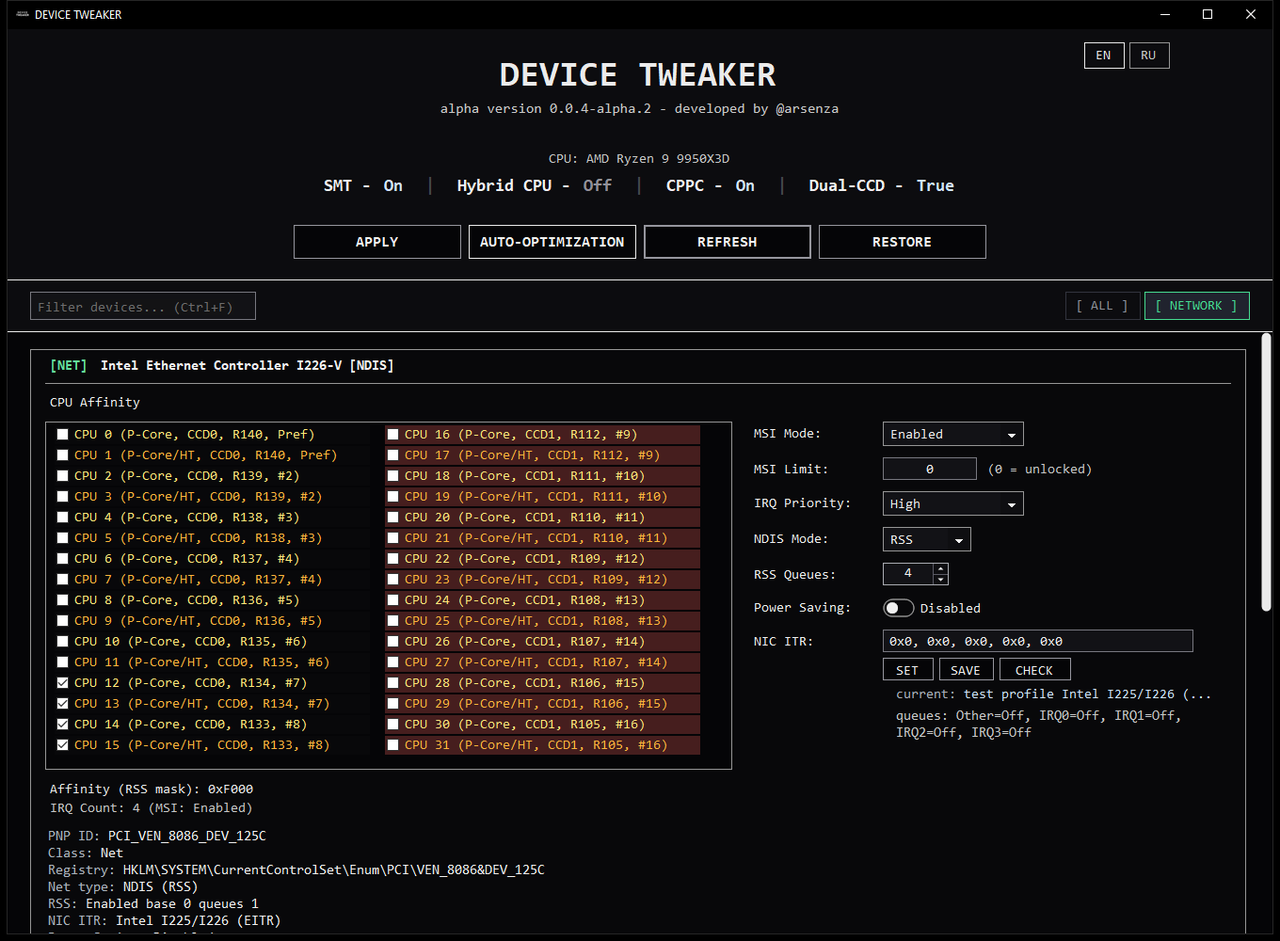
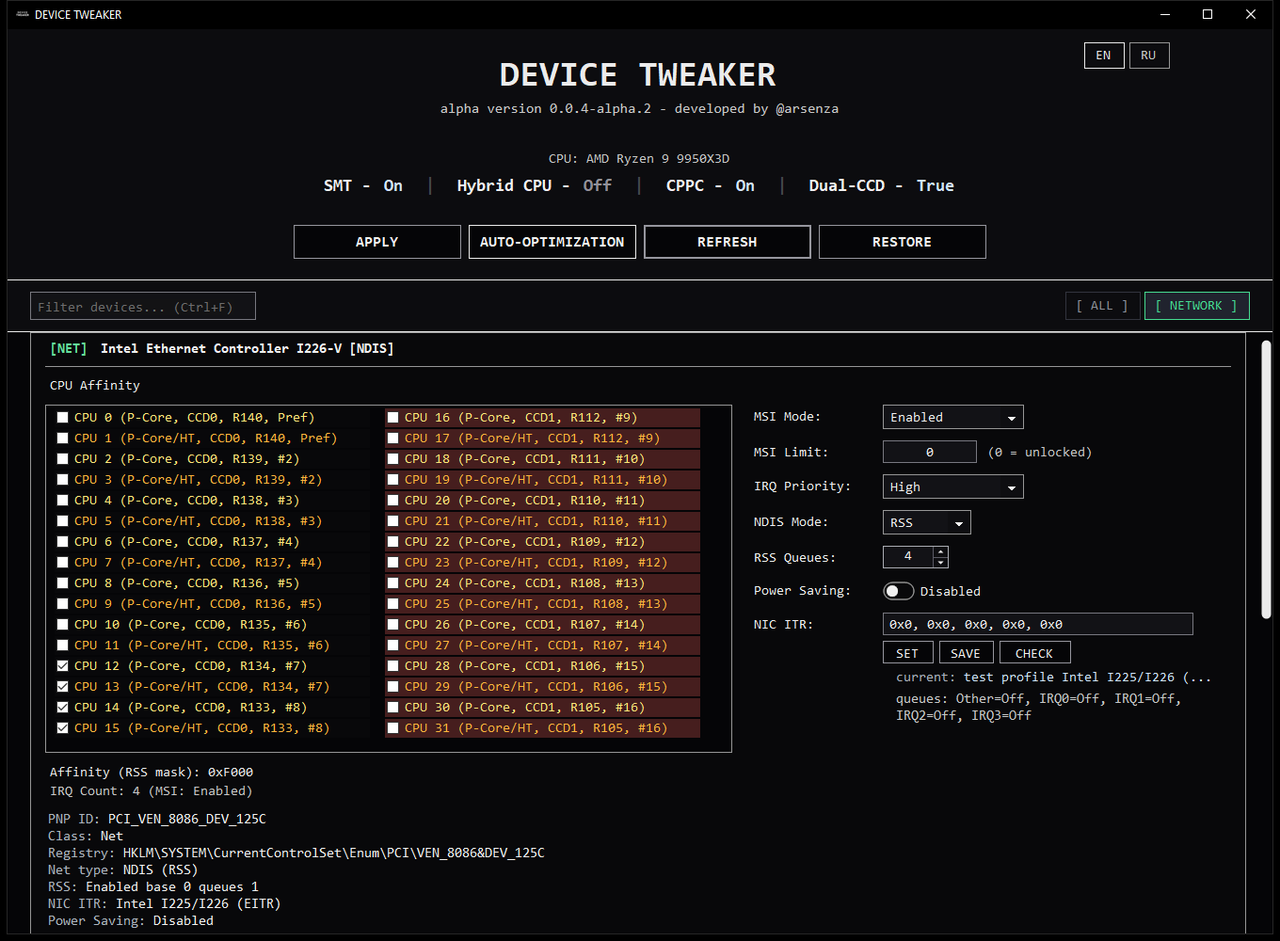
docs: replace markdown tables with authentic UI screenshots for IMOD and NIC ITR

Changed region(s): [[0.0309, 0.341, 0.5559, 0.992], [0.5868, 0.434, 0.9265, 0.806], [0.9882, 0.341, 1.0, 0.372]]

diff --git a/DEVICE TWEAKER/GUI/MainForm.Blocks.cs b/DEVICE TWEAKER/GUI/MainForm.Blocks.cs
@@ -319,7 +319,7 @@ public sealed partial class MainForm
         int cpuPanelTop = cpuLabel.Bottom + UiScale(6);
         int cpuPanelHeight = UiScale(150);
         bool hasImod = ShouldShowImod(device);
-        int desiredSettingsSideWidth = hasImod ? UiScale(420) : UiScale(360);
+        int desiredSettingsSideWidth = hasImod ? UiScale(460) : UiScale(360);
         int settingsMinimumWidth = Math.Min(UiScale(360), Math.Max(UiScale(280), grp.Width - UiScale(48)));
         int settingsSideMinimumWidth = desiredSettingsSideWidth;
         int cpuPanelMinimumWidth = UiScale(320);
@@ -1275,7 +1275,7 @@ public sealed partial class MainForm
 
         ThemedDropDownPicker cmbImodMode = new()
         {
-            Size = UiScale(156, 26),
+            Size = UiScale(96, 26),
             BackColor = Color.FromArgb(18, 18, 22),
             ForeColor = _fgMain,
             Font = _blockFont,
@@ -1288,7 +1288,7 @@ public sealed partial class MainForm
         };
         cmbImodMode.Items.AddRange([ImodModeSingle, ImodModeVector, ImodModeRoles]);
         cmbImodMode.SelectedIndex = 0;
-        cmbImodMode.DropDownWidth = cmbImodMode.Width;
+        cmbImodMode.DropDownWidth = UiScale(140);
         cmbImodMode.MaxDropDownItems = 3;
 
         Label lblImodModeHint = new()
@@ -1738,10 +1738,10 @@ public sealed partial class MainForm
 
             lblImodMode.Location = new Point(0, imodRowTop + labelOffset);
             cmbImodMode.Location = new Point(valueX, imodRowTop);
-            int modeHintLeft = cmbImodMode.Right + UiScale(14);
+            int modeHintLeft = cmbImodMode.Right + UiScale(8);
             lblImodModeHint.Location = new Point(modeHintLeft, imodRowTop + labelOffset);
             lblImodModeHint.Size = new Size(
-                Math.Max(UiScale(110), usableSettingsWidth - modeHintLeft - UiScale(8)),
+                Math.Max(UiScale(160), usableSettingsWidth - modeHintLeft - UiScale(2)),
                 UiScale(18));
 
             int valueRowTop = cmbImodMode.Bottom + rowGap;
@@ -1793,8 +1793,8 @@ public sealed partial class MainForm
             lblImodDefault.Location = new Point(lblImodCurrent.Right + statusGap, imodStatusTop);
             lblImodDefault.Size = new Size(defaultStatusWidth, UiScale(18));
             int imodMapRows = imodDeviceEditorRoles.Contains("Gamepad", StringComparer.OrdinalIgnoreCase) ? 12 : 11;
-            lblImodMap.Location = new Point(imodDetailsX, lblImodCurrent.Bottom + UiScale(14));
-            FitImodMapLabel(lblImodMap, usableSettingsWidth - imodDetailsX, imodMapRows);
+            lblImodMap.Location = new Point(0, lblImodCurrent.Bottom + UiScale(12));
+            FitImodMapLabel(lblImodMap, usableSettingsWidth, imodMapRows);
         }
 
         if (showImod)
@@ -1853,7 +1853,7 @@ public sealed partial class MainForm
             settingsContentBottom = Math.Max(settingsContentBottom, child.Bottom);
         }
 
-        desiredSettingsSideWidth = showImod ? UiScale(420) : UiScale(360);
+        desiredSettingsSideWidth = showImod ? UiScale(460) : UiScale(360);
         UpdateResponsivePlacement();
 
         int settingsMinWidth = Math.Min(UiScale(360), availableSettingsWidth);
@@ -1960,7 +1960,7 @@ public sealed partial class MainForm
                 return bottom;
             }
 
-            desiredSettingsSideWidth = showImod ? UiScale(420) : UiScale(360);
+            desiredSettingsSideWidth = showImod ? UiScale(460) : UiScale(360);
             UpdateResponsivePlacement();
             LayoutNicItrRow();
             LayoutImodRow();

diff --git a/DEVICE TWEAKER/GUI/MainForm.Showcase.cs b/DEVICE TWEAKER/GUI/MainForm.Showcase.cs
@@ -64,9 +64,24 @@ public sealed partial class MainForm
             _devicesBusyOverlay.Visible = false;
         }
         SetOperationButtonsEnabled(true);
-        if (_devicesScroll is not null)
+        string? targetDev = Environment.GetEnvironmentVariable("DEVICE_TWEAKER_SHOWCASE_DEVICE");
+        if (!string.IsNullOrWhiteSpace(targetDev))
+        {
+            DeviceBlock? targetBlock = _blocks.FirstOrDefault(b =>
+                (b.Device.Name != null && b.Device.Name.Contains(targetDev, StringComparison.OrdinalIgnoreCase))
+                || (b.Device.UsbRoles != null && b.Device.UsbRoles.Contains(targetDev, StringComparison.OrdinalIgnoreCase))
+                || (b.Device.InstanceId != null && b.Device.InstanceId.Contains(targetDev, StringComparison.OrdinalIgnoreCase)));
+            if (targetBlock is not null && _devicesScroll is not null)
+            {
+                int offset = Math.Max(0, targetBlock.Group.Top);
+                _devicesScroll.Value = offset;
+                SetDevicesScrollOffset(offset);
+            }
+        }
+        else if (_devicesScroll is not null)
         {
             _devicesScroll.Value = 0;
+            SetDevicesScrollOffset(0);
         }
         _searchFilterBox?.Inner.Select(0, 0);
         _btnScanRef?.Focus();

diff --git a/DEVICE TWEAKER/GUI/ImodMapTextBox.cs b/DEVICE TWEAKER/GUI/ImodMapTextBox.cs
@@ -245,17 +245,17 @@ internal sealed partial class ImodMapTextBox : ScrollableControl
 
     private static (int Name, int Irq, int Value, int Delay) DeviceColumns(int width)
     {
-        int irq = Math.Max(120, (int)(width * 0.34));
-        int value = Math.Max(irq + 48, (int)(width * 0.50));
-        int delay = Math.Min(width - 86, Math.Max(value + 84, (int)(width * 0.70)));
+        int irq = Math.Max(100, (int)(width * 0.30));
+        int value = Math.Max(irq + 36, (int)(width * 0.44));
+        int delay = Math.Min(width - 96, Math.Max(value + 72, (int)(width * 0.66)));
         return (0, irq, value, Math.Min(delay, Math.Max(value + 1, width - 1)));
     }
 
     private static (int Irq1, int Value1, int Delay1, int Irq2, int Value2, int Delay2) InterruptColumns(int width)
     {
         int colWidth = width / 2;
-        int valueOffset = Math.Max(38, (int)(colWidth * 0.16));
-        int delayOffset = Math.Max(valueOffset + 78, (int)(colWidth * 0.50));
+        int valueOffset = Math.Max(36, (int)(colWidth * 0.16));
+        int delayOffset = Math.Max(valueOffset + 76, (int)(colWidth * 0.50));
 
         int irq1 = 0;
         int value1 = valueOffset;

diff --git a/DEVICE TWEAKER/Core/MainForm.Imod.Helpers.cs b/DEVICE TWEAKER/Core/MainForm.Imod.Helpers.cs
@@ -15,9 +15,13 @@ public sealed partial class MainForm
         return HasUsbRole(device, "Keyboard")
             || HasUsbRole(device, "Mouse")
             || HasUsbRole(device, "Gamepad")
+            || HasUsbRole(device, "Audio")
+            || HasUsbRole(device, "DAC")
             || HasUsbRole(device, "Клавиатура")
             || HasUsbRole(device, "Мышь")
-            || HasUsbRole(device, "Геймпад");
+            || HasUsbRole(device, "Геймпад")
+            || HasUsbRole(device, "Аудио")
+            || HasUsbRole(device, "ЦАП");
     }
 
     private static bool HasUsbRole(DeviceInfo device, string role)

diff --git a/DEVICE TWEAKER/GUI/NicItrTableLabel.cs b/DEVICE TWEAKER/GUI/NicItrTableLabel.cs
@@ -123,9 +123,9 @@ internal sealed partial class NicItrTableLabel : Label
 
     private static (int Queue, int Value, int Rx, int Tx) Columns(int width)
     {
-        int value = Math.Max(58, (int)(width * 0.18));
-        int rx = Math.Max(value + 104, (int)(width * 0.48));
-        int tx = Math.Max(rx + 120, (int)(width * 0.76));
+        int value = Math.Max(72, (int)(width * 0.22));
+        int rx = Math.Max(value + 96, (int)(width * 0.50));
+        int tx = Math.Max(rx + 110, (int)(width * 0.76));
         return (0, value, rx, Math.Min(tx, Math.Max(rx + 1, width - 1)));
     }
 

diff --git a/README.md b/README.md
@@ -77,19 +77,16 @@ DEVICE TWEAKER переводит периферийные PCIe-устройст
 - **Разделение контроллеров CHIP 0 / CHIP 1:** модуль `UsbChipPath` анализирует топологию шины PCIe и отличает прямой процессорный контроллер (CHIP 0 / Direct CPU Lanes) от чипсетных хабов (CHIP 1 / PCH). Это позволяет отключить задержку (`0x0`) для мыши на процессорном порту, сохранив стабильный буфер 1 мс (`0xFA0`) для звуковых контроллеров чипсета во избежание щелчков звука.
 
 <p align="center">
-  <img src="./DEVICE%20TWEAKER/assets/screenshots/showcase_amd_imod_table_ru.png" alt="Таблица аппаратной модерации таймеров USB xHCI IMOD" width="100%">
+  <img src="./DEVICE%20TWEAKER/assets/screenshots/showcase_amd_imod_table_ru.png" alt="Процессорный контроллер USB: нулевая задержка мыши IMOD 0x0" width="100%">
 </p>
 
-#### Практические примеры конфигурации USB IMOD
-
-| Сценарий применения | Контроллер / Топология | Значение IMOD | Задержка | Приоритет IRQ | Назначение Affinity |
-| :--- | :--- | :--- | :--- | :--- | :--- |
-| **Игровая мышь (1000 - 8000 Гц)** | Процессорный CHIP 0 (Direct CPU) | `0x0` | 0 нс (Zero latency) | Высокий (High) | Выделенное физическое ядро (P-Core) |
-| **Игровая клавиатура (1000 - 8000 Гц)** | Чипсетный CHIP 1 (PCH Hub) | `0x0` | 0 нс (Zero latency) | Высокий (High) | Смежное изолированное ядро |
-| **USB ЦАП / Внешняя звуковая карта** | Чипсетный CHIP 1 (PCH Hub) | `0xFA0` | 1000 мкс (1.0 мс) | Обычный (Normal) | Вторичное ядро (защита от опустошения буфера) |
-| **Стандартная периферия (флешки, вебкамера)** | Любой доступный порт | `0xC8` (По умолчанию) | 50 мкс | Обычный (Normal) | Общий пул ядер планировщика |
-
 В интерактивной таблице DEVICE TWEAKER отображаются физические интерраптеры (IRQ 0..7), текущее активное значение задержки в наносекундах и привязанные конечные устройства. Кнопка **`[ЗАДАТЬ]`** загружает драйвер Ring 0 и записывает регистры MMIO, **`[ПРОВЕРИТЬ]`** подтверждает физическое состояние регистров контроллера, а **`[УДАЛИТЬ]`** возвращает заводское значение драйвера Windows (`0xC8` / 50 мкс).
+
+Для чипсетных контроллеров (CHIP 1+) с подключенными аудиоинтерфейсами и внешними ЦАП устанавливается стабильный аппаратный буфер 1 мс (`0xFA0` / 1000 мкс) с обычным приоритетом IRQ, исключающий щелчки звука и выпадение аудиопотока:
+
+<p align="center">
+  <img src="./DEVICE%20TWEAKER/assets/screenshots/showcase_usb_audio_dac_imod_ru.png" alt="Чипсетный контроллер USB: буфер 1 мс для аудиоинтерфейса IMOD 0xFA0" width="100%">
+</p>
 
 ### Сетевой стек: регистры NIC ITR и масштабирование очередей RSS
 
@@ -100,18 +97,16 @@ DEVICE TWEAKER переводит периферийные PCIe-устройст
 - **Управление электропитанием шины:** отключение энергосберегающих состояний D3 (`PnPCapabilities` бит `0x08`, синхронизированный через WMI `MSPower_DeviceEnable`) и отключение выборочного энергосбережения USB (Selective Suspend).
 
 <p align="center">
-  <img src="./DEVICE%20TWEAKER/assets/screenshots/showcase_nic_itr_ru.png" alt="Управление регистрами NIC ITR и распределением очередей RSS" width="100%">
+  <img src="./DEVICE%20TWEAKER/assets/screenshots/showcase_nic_itr_ru.png" alt="Сетевой адаптер Intel I226-V: 4 очереди RSS и регистры EITR 0x0" width="100%">
 </p>
 
-#### Практические примеры конфигурации сетевых адаптеров
-
-| Адаптер | Режим ITR | Значение регистра | Число очередей RSS | Распределение ядер (Affinity) | Результат |
-| :--- | :--- | :--- | :--- | :--- | :--- |
-| **Intel Ethernet I225-V / I226-V (2.5G)** | Отключено (Zero Delay) | `0x0, 0x0, 0x0, 0x0` | 4 очереди (`*NumRssQueues=4`) | Выделенный блок ядер (CPU 12-15) | Мгновенный отклик сетевых пакетов без джиттера, ноль задержки в буфере |
-| **Realtek RTL8125 / RTL8126 (2.5G/5G)** | Отключено (Zero Delay) | `0x0` (`0x00000000`) | 2-4 очереди | Вторичные ядра CCD0 / P-ядра | Полное исключение модерации прерываний на чипах Dragon/Gaming |
-| **Intel I219-V / I211-AT (1G)** | Фиксированная задержка | `0x3E8` (1000 мкс) | 2 очереди | Вторичный чиплет CCD1 / E-ядра | Баланс между минимальным сетевым оверхедом CPU и плавной передачей потока |
-
 DEVICE TWEAKER одновременно настраивает реестровые флаги драйвера NDIS (`*ReceiveBuffers`, `*InterruptModeration`, `*RSS`) и физические регистры аппаратных очередей контроллера через драйвер Ring 0, выводя состояние очередей (Other=Off, IRQ0=Off, IRQ1=Off...) в статусную строку карточки устройства.
+
+На игровых контроллерах Realtek (RTL8125 / RTL8126) программа перепрограммирует регистр модерации `IntrMit` в значение `0x0`, отключая задержку пакетирования прерываний:
+
+<p align="center">
+  <img src="./DEVICE%20TWEAKER/assets/screenshots/showcase_nic_realtek_itr_ru.png" alt="Сетевой адаптер Realtek RTL8125: регистр IntrMit 0x0" width="100%">
+</p>
 
 ### Системная изоляция ядер (ReservedCpuSets)
 

diff --git a/DEVICE TWEAKER/README.md b/DEVICE TWEAKER/README.md
@@ -77,19 +77,16 @@ DEVICE TWEAKER переводит периферийные PCIe-устройст
 - **Разделение контроллеров CHIP 0 / CHIP 1:** модуль `UsbChipPath` анализирует топологию шины PCIe и отличает прямой процессорный контроллер (CHIP 0 / Direct CPU Lanes) от чипсетных хабов (CHIP 1 / PCH). Это позволяет отключить задержку (`0x0`) для мыши на процессорном порту, сохранив стабильный буфер 1 мс (`0xFA0`) для звуковых контроллеров чипсета во избежание щелчков звука.
 
 <p align="center">
-  <img src="./assets/screenshots/showcase_amd_imod_table_ru.png" alt="Таблица аппаратной модерации таймеров USB xHCI IMOD" width="100%">
+  <img src="./assets/screenshots/showcase_amd_imod_table_ru.png" alt="Процессорный контроллер USB: нулевая задержка мыши IMOD 0x0" width="100%">
 </p>
 
-#### Практические примеры конфигурации USB IMOD
-
-| Сценарий применения | Контроллер / Топология | Значение IMOD | Задержка | Приоритет IRQ | Назначение Affinity |
-| :--- | :--- | :--- | :--- | :--- | :--- |
-| **Игровая мышь (1000 - 8000 Гц)** | Процессорный CHIP 0 (Direct CPU) | `0x0` | 0 нс (Zero latency) | Высокий (High) | Выделенное физическое ядро (P-Core) |
-| **Игровая клавиатура (1000 - 8000 Гц)** | Чипсетный CHIP 1 (PCH Hub) | `0x0` | 0 нс (Zero latency) | Высокий (High) | Смежное изолированное ядро |
-| **USB ЦАП / Внешняя звуковая карта** | Чипсетный CHIP 1 (PCH Hub) | `0xFA0` | 1000 мкс (1.0 мс) | Обычный (Normal) | Вторичное ядро (защита от опустошения буфера) |
-| **Стандартная периферия (флешки, вебкамера)** | Любой доступный порт | `0xC8` (По умолчанию) | 50 мкс | Обычный (Normal) | Общий пул ядер планировщика |
-
 В интерактивной таблице DEVICE TWEAKER отображаются физические интерраптеры (IRQ 0..7), текущее активное значение задержки в наносекундах и привязанные конечные устройства. Кнопка **`[ЗАДАТЬ]`** загружает драйвер Ring 0 и записывает регистры MMIO, **`[ПРОВЕРИТЬ]`** подтверждает физическое состояние регистров контроллера, а **`[УДАЛИТЬ]`** возвращает заводское значение драйвера Windows (`0xC8` / 50 мкс).
+
+Для чипсетных контроллеров (CHIP 1+) с подключенными аудиоинтерфейсами и внешними ЦАП устанавливается стабильный аппаратный буфер 1 мс (`0xFA0` / 1000 мкс) с обычным приоритетом IRQ, исключающий щелчки звука и выпадение аудиопотока:
+
+<p align="center">
+  <img src="./assets/screenshots/showcase_usb_audio_dac_imod_ru.png" alt="Чипсетный контроллер USB: буфер 1 мс для аудиоинтерфейса IMOD 0xFA0" width="100%">
+</p>
 
 ### Сетевой стек: регистры NIC ITR и масштабирование очередей RSS
 
@@ -100,18 +97,16 @@ DEVICE TWEAKER переводит периферийные PCIe-устройст
 - **Управление электропитанием шины:** отключение энергосберегающих состояний D3 (`PnPCapabilities` бит `0x08`, синхронизированный через WMI `MSPower_DeviceEnable`) и отключение выборочного энергосбережения USB (Selective Suspend).
 
 <p align="center">
-  <img src="./assets/screenshots/showcase_nic_itr_ru.png" alt="Управление регистрами NIC ITR и распределением очередей RSS" width="100%">
+  <img src="./assets/screenshots/showcase_nic_itr_ru.png" alt="Сетевой адаптер Intel I226-V: 4 очереди RSS и регистры EITR 0x0" width="100%">
 </p>
 
-#### Практические примеры конфигурации сетевых адаптеров
-
-| Адаптер | Режим ITR | Значение регистра | Число очередей RSS | Распределение ядер (Affinity) | Результат |
-| :--- | :--- | :--- | :--- | :--- | :--- |
-| **Intel Ethernet I225-V / I226-V (2.5G)** | Отключено (Zero Delay) | `0x0, 0x0, 0x0, 0x0` | 4 очереди (`*NumRssQueues=4`) | Выделенный блок ядер (CPU 12-15) | Мгновенный отклик сетевых пакетов без джиттера, ноль задержки в буфере |
-| **Realtek RTL8125 / RTL8126 (2.5G/5G)** | Отключено (Zero Delay) | `0x0` (`0x00000000`) | 2-4 очереди | Вторичные ядра CCD0 / P-ядра | Полное исключение модерации прерываний на чипах Dragon/Gaming |
-| **Intel I219-V / I211-AT (1G)** | Фиксированная задержка | `0x3E8` (1000 мкс) | 2 очереди | Вторичный чиплет CCD1 / E-ядра | Баланс между минимальным сетевым оверхедом CPU и плавной передачей потока |
-
 DEVICE TWEAKER одновременно настраивает реестровые флаги драйвера NDIS (`*ReceiveBuffers`, `*InterruptModeration`, `*RSS`) и физические регистры аппаратных очередей контроллера через драйвер Ring 0, выводя состояние очередей (Other=Off, IRQ0=Off, IRQ1=Off...) в статусную строку карточки устройства.
+
+На игровых контроллерах Realtek (RTL8125 / RTL8126) программа перепрограммирует регистр модерации `IntrMit` в значение `0x0`, отключая задержку пакетирования прерываний:
+
+<p align="center">
+  <img src="./assets/screenshots/showcase_nic_realtek_itr_ru.png" alt="Сетевой адаптер Realtek RTL8125: регистр IntrMit 0x0" width="100%">
+</p>
 
 ### Системная изоляция ядер (ReservedCpuSets)
 

diff --git a/README.en.md b/README.en.md
@@ -77,19 +77,16 @@ Per Intel xHCI Specification Revision 1.2 (§5.5.2), each hardware interrupter i
 - **Controller Partitioning (CHIP 0 / CHIP 1):** the `UsbChipPath` engine analyzes PCIe bus topology to distinguish direct CPU-attached lanes (CHIP 0) from chipset hubs (CHIP 1 / PCH). This allows applying zero delay (`0x0`) to mouse input on direct CPU ports while maintaining 1 ms (`0xFA0`) buffers for chipset audio devices to prevent audio dropouts.
 
 <p align="center">
-  <img src="./DEVICE%20TWEAKER/assets/screenshots/showcase_amd_imod_table_en.png" alt="Hardware USB xHCI IMOD Timer Moderation Table" width="100%">
+  <img src="./DEVICE%20TWEAKER/assets/screenshots/showcase_amd_imod_table_en.png" alt="Direct CPU USB Controller: Zero Mouse Latency IMOD 0x0" width="100%">
 </p>
 
-#### Practical USB IMOD Configuration Examples
-
-| Use Case | Controller / Topology | IMOD Value | Moderation Delay | IRQ Priority | Target Affinity |
-| :--- | :--- | :--- | :--- | :--- | :--- |
-| **Gaming Mouse (1000 - 8000 Hz)** | CPU-direct CHIP 0 (Direct Lanes) | `0x0` | 0 ns (Zero latency) | High | Dedicated physical core (P-Core) |
-| **Gaming Keyboard (1000 - 8000 Hz)** | Chipset CHIP 1 (PCH Hub) | `0x0` | 0 ns (Zero latency) | High | Adjacent isolated core |
-| **USB DAC / Audio Interface** | Chipset CHIP 1 (PCH Hub) | `0xFA0` | 1000 µs (1.0 ms) | Normal | Secondary core (buffer underrun prevention) |
-| **Standard Peripherals (Flash, Cam)** | Any available hub | `0xC8` (Default) | 50 µs | Normal | General scheduler core pool |
-
 The interactive DEVICE TWEAKER table exposes hardware interrupters (IRQ 0..7), active delay intervals in nanoseconds, and enumerated USB client devices. The **`[SET]`** button invokes the Ring 0 driver to commit physical MMIO registers, **`[CHECK]`** verifies hardware registers in real time, and **`[REMOVE]`** restores Windows driver defaults (`0xC8` / 50 µs).
+
+For chipset-attached controllers (CHIP 1+) driving external audio DACs and microphones, a safe 1 ms hardware buffer (`0xFA0` / 1000 µs) with Normal IRQ priority ensures continuous audio streaming without dropouts or buffer clicks:
+
+<p align="center">
+  <img src="./DEVICE%20TWEAKER/assets/screenshots/showcase_usb_audio_dac_imod_en.png" alt="Chipset USB Controller: 1 ms Buffer for Audio DAC IMOD 0xFA0" width="100%">
+</p>
 
 ### Network Stack: NIC ITR Registers & RSS Queue Scaling
 
@@ -100,18 +97,16 @@ The interactive DEVICE TWEAKER table exposes hardware interrupters (IRQ 0..7), a
 - **PCIe Bus Power Management:** disables device D3 sleep states (`PnPCapabilities` bit `0x08`, synchronized via WMI `MSPower_DeviceEnable`) and disables USB Selective Suspend.
 
 <p align="center">
-  <img src="./DEVICE%20TWEAKER/assets/screenshots/showcase_nic_itr_en.png" alt="NIC ITR Registers and RSS Queue Allocation" width="100%">
+  <img src="./DEVICE%20TWEAKER/assets/screenshots/showcase_nic_itr_en.png" alt="Intel I226-V Network Adapter: 4 RSS Queues and EITR 0x0" width="100%">
 </p>
 
-#### Practical Network Adapter Configuration Examples
-
-| Network Adapter | ITR Mode | Register Value | RSS Queues | Core Allocation (Affinity) | Impact |
-| :--- | :--- | :--- | :--- | :--- | :--- |
-| **Intel Ethernet I225-V / I226-V (2.5G)** | Disabled (Zero Delay) | `0x0, 0x0, 0x0, 0x0` | 4 queues (`*NumRssQueues=4`) | Dedicated core block (CPU 12-15) | Instantaneous packet delivery with zero jitter and zero batch buffer delay |
-| **Realtek RTL8125 / RTL8126 (2.5G/5G)** | Disabled (Zero Delay) | `0x0` (`0x00000000`) | 2-4 queues | Secondary CCD0 / P-Cores | Complete elimination of moderation buffering on Dragon/Gaming NICs |
-| **Intel I219-V / I211-AT (1G)** | Fixed Delay | `0x3E8` (1000 µs) | 2 queues | Secondary CCD1 / E-Cores | Balanced throughput and reduced CPU overhead for background downloads |
-
 DEVICE TWEAKER simultaneously coordinates NDIS registry flags (`*ReceiveBuffers`, `*InterruptModeration`, `*RSS`) and physical hardware queue registers via the Ring 0 kernel driver, surfacing per-queue status (Other=Off, IRQ0=Off, IRQ1=Off...) directly inside the adapter device card.
+
+For Realtek Gaming adapters (RTL8125 / RTL8126), the utility reprograms the hardware `IntrMit` moderation register to `0x0`, eliminating interrupt batching delays:
+
+<p align="center">
+  <img src="./DEVICE%20TWEAKER/assets/screenshots/showcase_nic_realtek_itr_en.png" alt="Realtek RTL8125 Network Adapter: IntrMit 0x0 Register" width="100%">
+</p>
 
 ### System Core Isolation (ReservedCpuSets)
 

diff --git a/DEVICE TWEAKER/README.en.md b/DEVICE TWEAKER/README.en.md
@@ -77,19 +77,16 @@ Per Intel xHCI Specification Revision 1.2 (§5.5.2), each hardware interrupter i
 - **Controller Partitioning (CHIP 0 / CHIP 1):** the `UsbChipPath` engine analyzes PCIe bus topology to distinguish direct CPU-attached lanes (CHIP 0) from chipset hubs (CHIP 1 / PCH). This allows applying zero delay (`0x0`) to mouse input on direct CPU ports while maintaining 1 ms (`0xFA0`) buffers for chipset audio devices to prevent audio dropouts.
 
 <p align="center">
-  <img src="./assets/screenshots/showcase_amd_imod_table_en.png" alt="Hardware USB xHCI IMOD Timer Moderation Table" width="100%">
+  <img src="./assets/screenshots/showcase_amd_imod_table_en.png" alt="Direct CPU USB Controller: Zero Mouse Latency IMOD 0x0" width="100%">
 </p>
 
-#### Practical USB IMOD Configuration Examples
-
-| Use Case | Controller / Topology | IMOD Value | Moderation Delay | IRQ Priority | Target Affinity |
-| :--- | :--- | :--- | :--- | :--- | :--- |
-| **Gaming Mouse (1000 - 8000 Hz)** | CPU-direct CHIP 0 (Direct Lanes) | `0x0` | 0 ns (Zero latency) | High | Dedicated physical core (P-Core) |
-| **Gaming Keyboard (1000 - 8000 Hz)** | Chipset CHIP 1 (PCH Hub) | `0x0` | 0 ns (Zero latency) | High | Adjacent isolated core |
-| **USB DAC / Audio Interface** | Chipset CHIP 1 (PCH Hub) | `0xFA0` | 1000 µs (1.0 ms) | Normal | Secondary core (buffer underrun prevention) |
-| **Standard Peripherals (Flash, Cam)** | Any available hub | `0xC8` (Default) | 50 µs | Normal | General scheduler core pool |
-
 The interactive DEVICE TWEAKER table exposes hardware interrupters (IRQ 0..7), active delay intervals in nanoseconds, and enumerated USB client devices. The **`[SET]`** button invokes the Ring 0 driver to commit physical MMIO registers, **`[CHECK]`** verifies hardware registers in real time, and **`[REMOVE]`** restores Windows driver defaults (`0xC8` / 50 µs).
+
+For chipset-attached controllers (CHIP 1+) driving external audio DACs and microphones, a safe 1 ms hardware buffer (`0xFA0` / 1000 µs) with Normal IRQ priority ensures continuous audio streaming without dropouts or buffer clicks:
+
+<p align="center">
+  <img src="./assets/screenshots/showcase_usb_audio_dac_imod_en.png" alt="Chipset USB Controller: 1 ms Buffer for Audio DAC IMOD 0xFA0" width="100%">
+</p>
 
 ### Network Stack: NIC ITR Registers & RSS Queue Scaling
 
@@ -100,18 +97,16 @@ The interactive DEVICE TWEAKER table exposes hardware interrupters (IRQ 0..7), a
 - **PCIe Bus Power Management:** disables device D3 sleep states (`PnPCapabilities` bit `0x08`, synchronized via WMI `MSPower_DeviceEnable`) and disables USB Selective Suspend.
 
 <p align="center">
-  <img src="./assets/screenshots/showcase_nic_itr_en.png" alt="NIC ITR Registers and RSS Queue Allocation" width="100%">
+  <img src="./assets/screenshots/showcase_nic_itr_en.png" alt="Intel I226-V Network Adapter: 4 RSS Queues and EITR 0x0" width="100%">
 </p>
 
-#### Practical Network Adapter Configuration Examples
-
-| Network Adapter | ITR Mode | Register Value | RSS Queues | Core Allocation (Affinity) | Impact |
-| :--- | :--- | :--- | :--- | :--- | :--- |
-| **Intel Ethernet I225-V / I226-V (2.5G)** | Disabled (Zero Delay) | `0x0, 0x0, 0x0, 0x0` | 4 queues (`*NumRssQueues=4`) | Dedicated core block (CPU 12-15) | Instantaneous packet delivery with zero jitter and zero batch buffer delay |
-| **Realtek RTL8125 / RTL8126 (2.5G/5G)** | Disabled (Zero Delay) | `0x0` (`0x00000000`) | 2-4 queues | Secondary CCD0 / P-Cores | Complete elimination of moderation buffering on Dragon/Gaming NICs |
-| **Intel I219-V / I211-AT (1G)** | Fixed Delay | `0x3E8` (1000 µs) | 2 queues | Secondary CCD1 / E-Cores | Balanced throughput and reduced CPU overhead for background downloads |
-
 DEVICE TWEAKER simultaneously coordinates NDIS registry flags (`*ReceiveBuffers`, `*InterruptModeration`, `*RSS`) and physical hardware queue registers via the Ring 0 kernel driver, surfacing per-queue status (Other=Off, IRQ0=Off, IRQ1=Off...) directly inside the adapter device card.
+
+For Realtek Gaming adapters (RTL8125 / RTL8126), the utility reprograms the hardware `IntrMit` moderation register to `0x0`, eliminating interrupt batching delays:
+
+<p align="center">
+  <img src="./assets/screenshots/showcase_nic_realtek_itr_en.png" alt="Realtek RTL8125 Network Adapter: IntrMit 0x0 Register" width="100%">
+</p>
 
 ### System Core Isolation (ReservedCpuSets)
 
